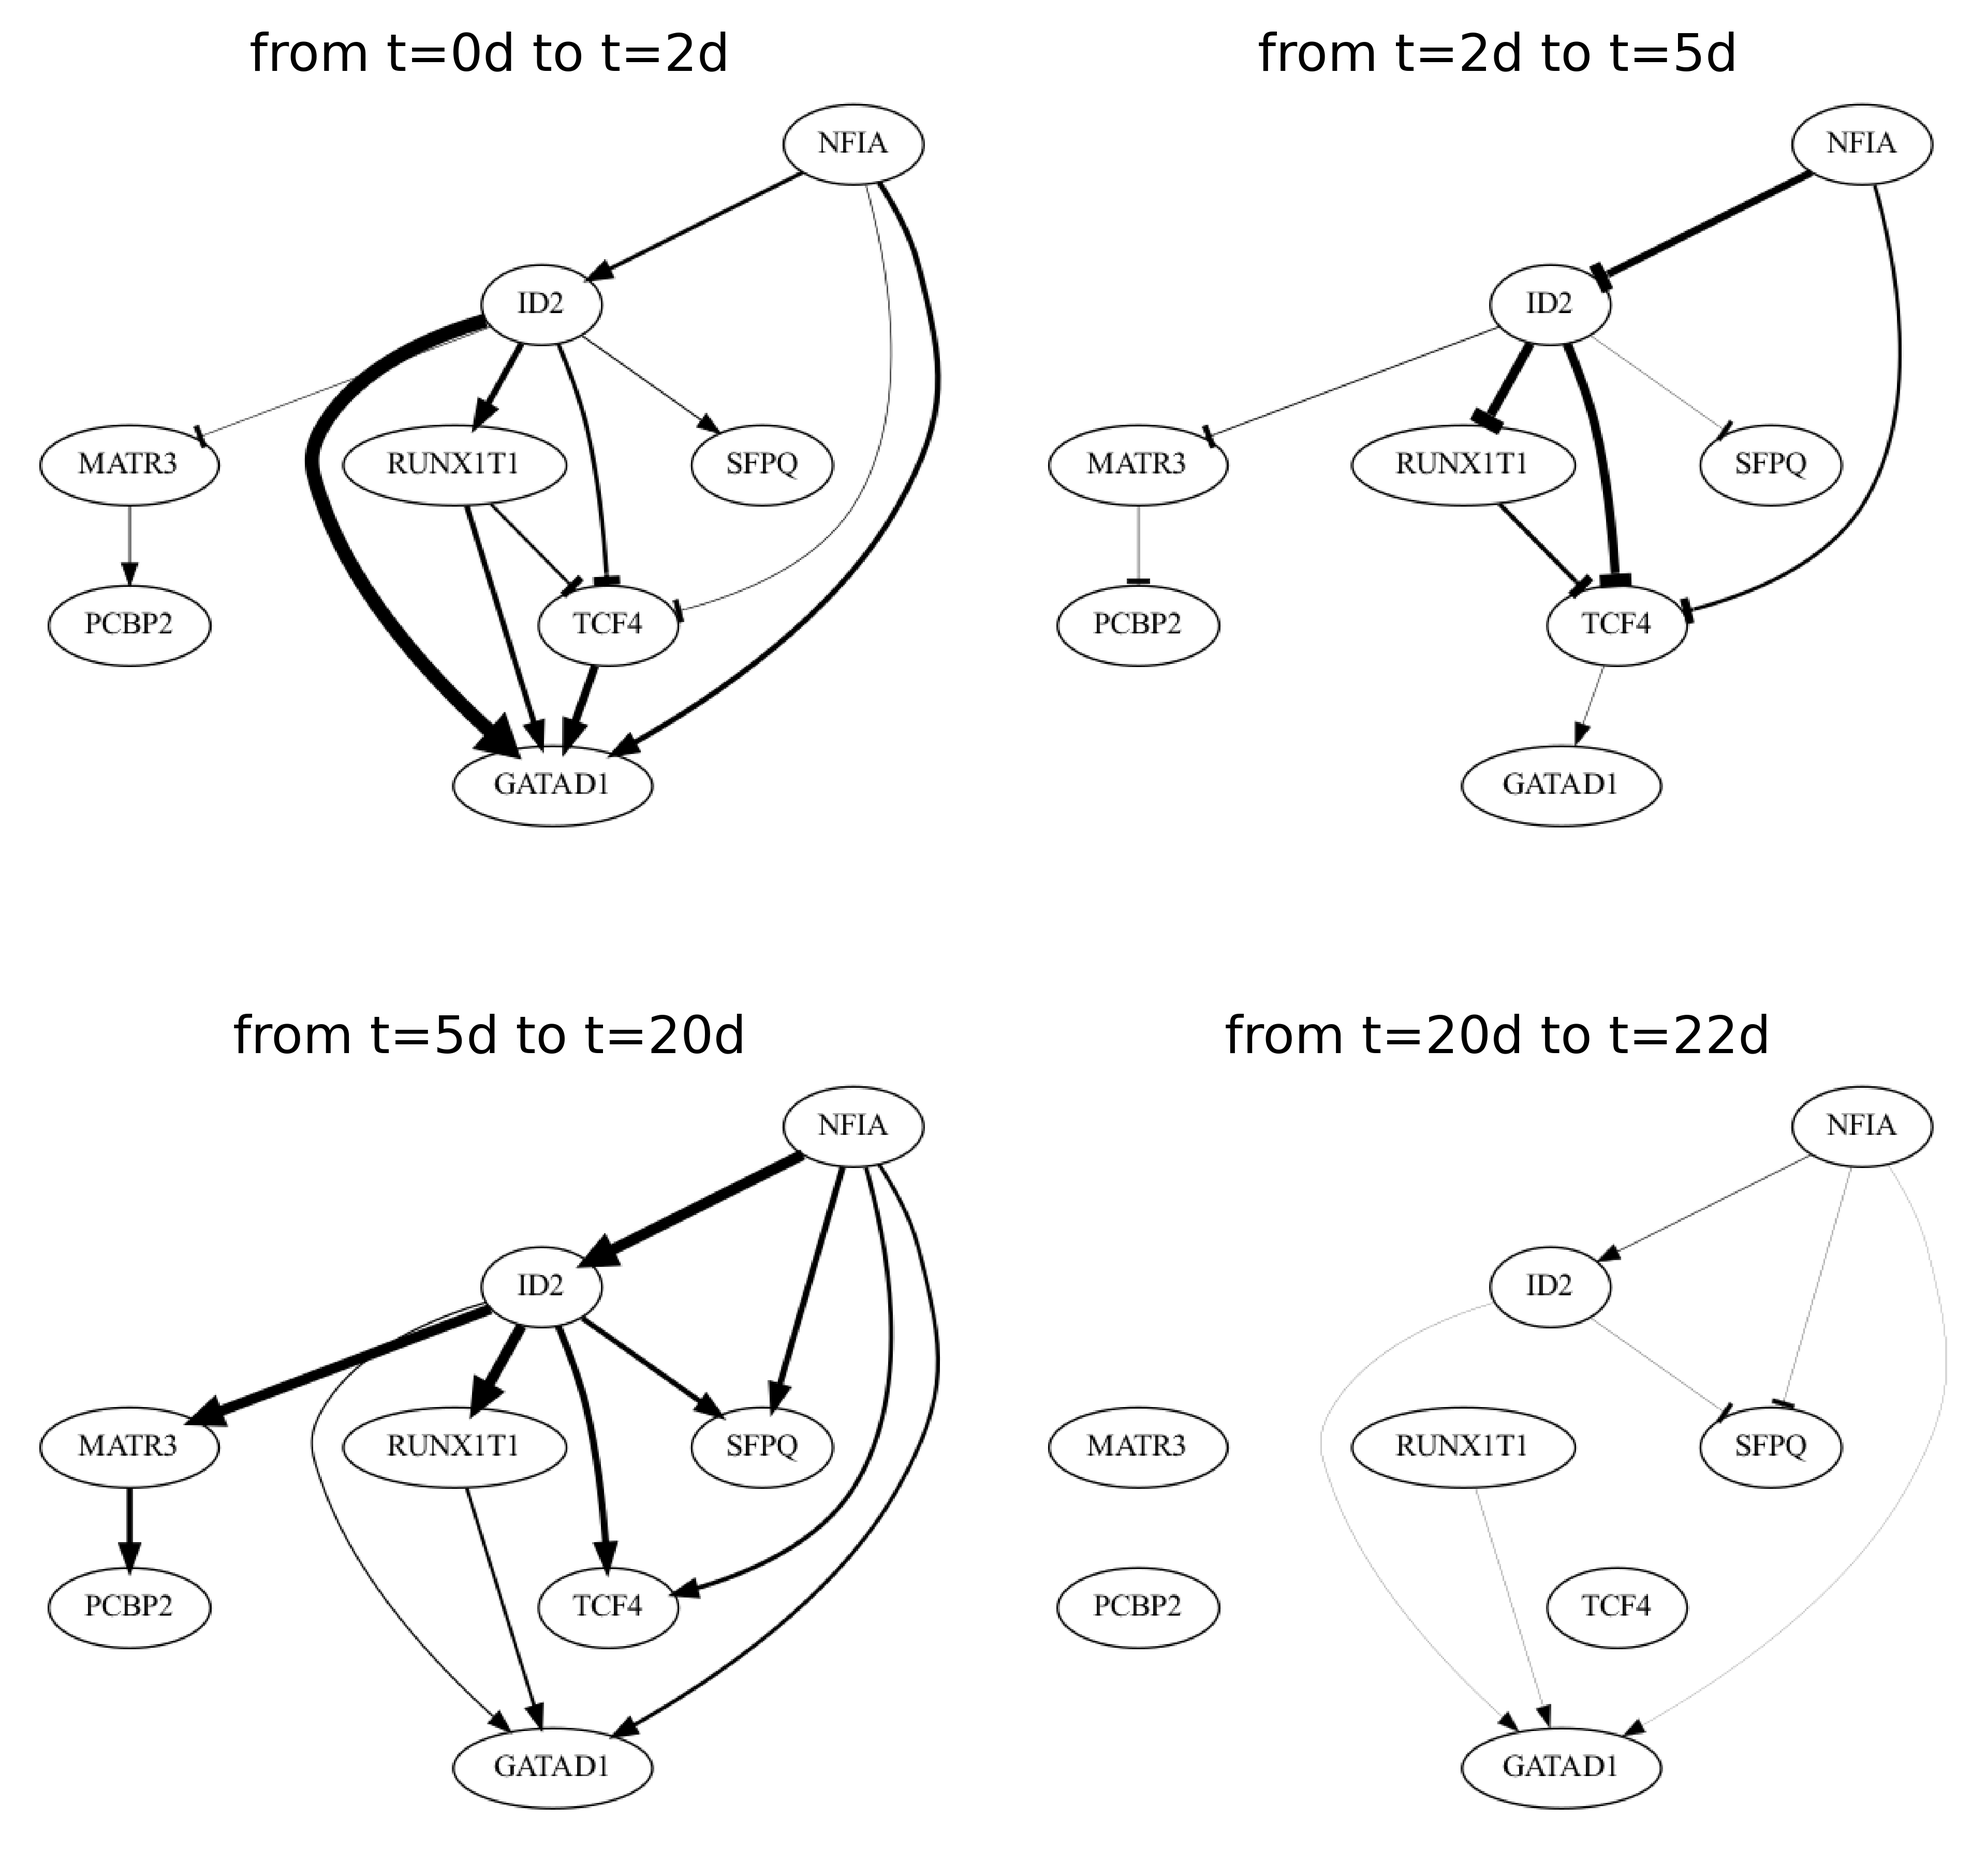
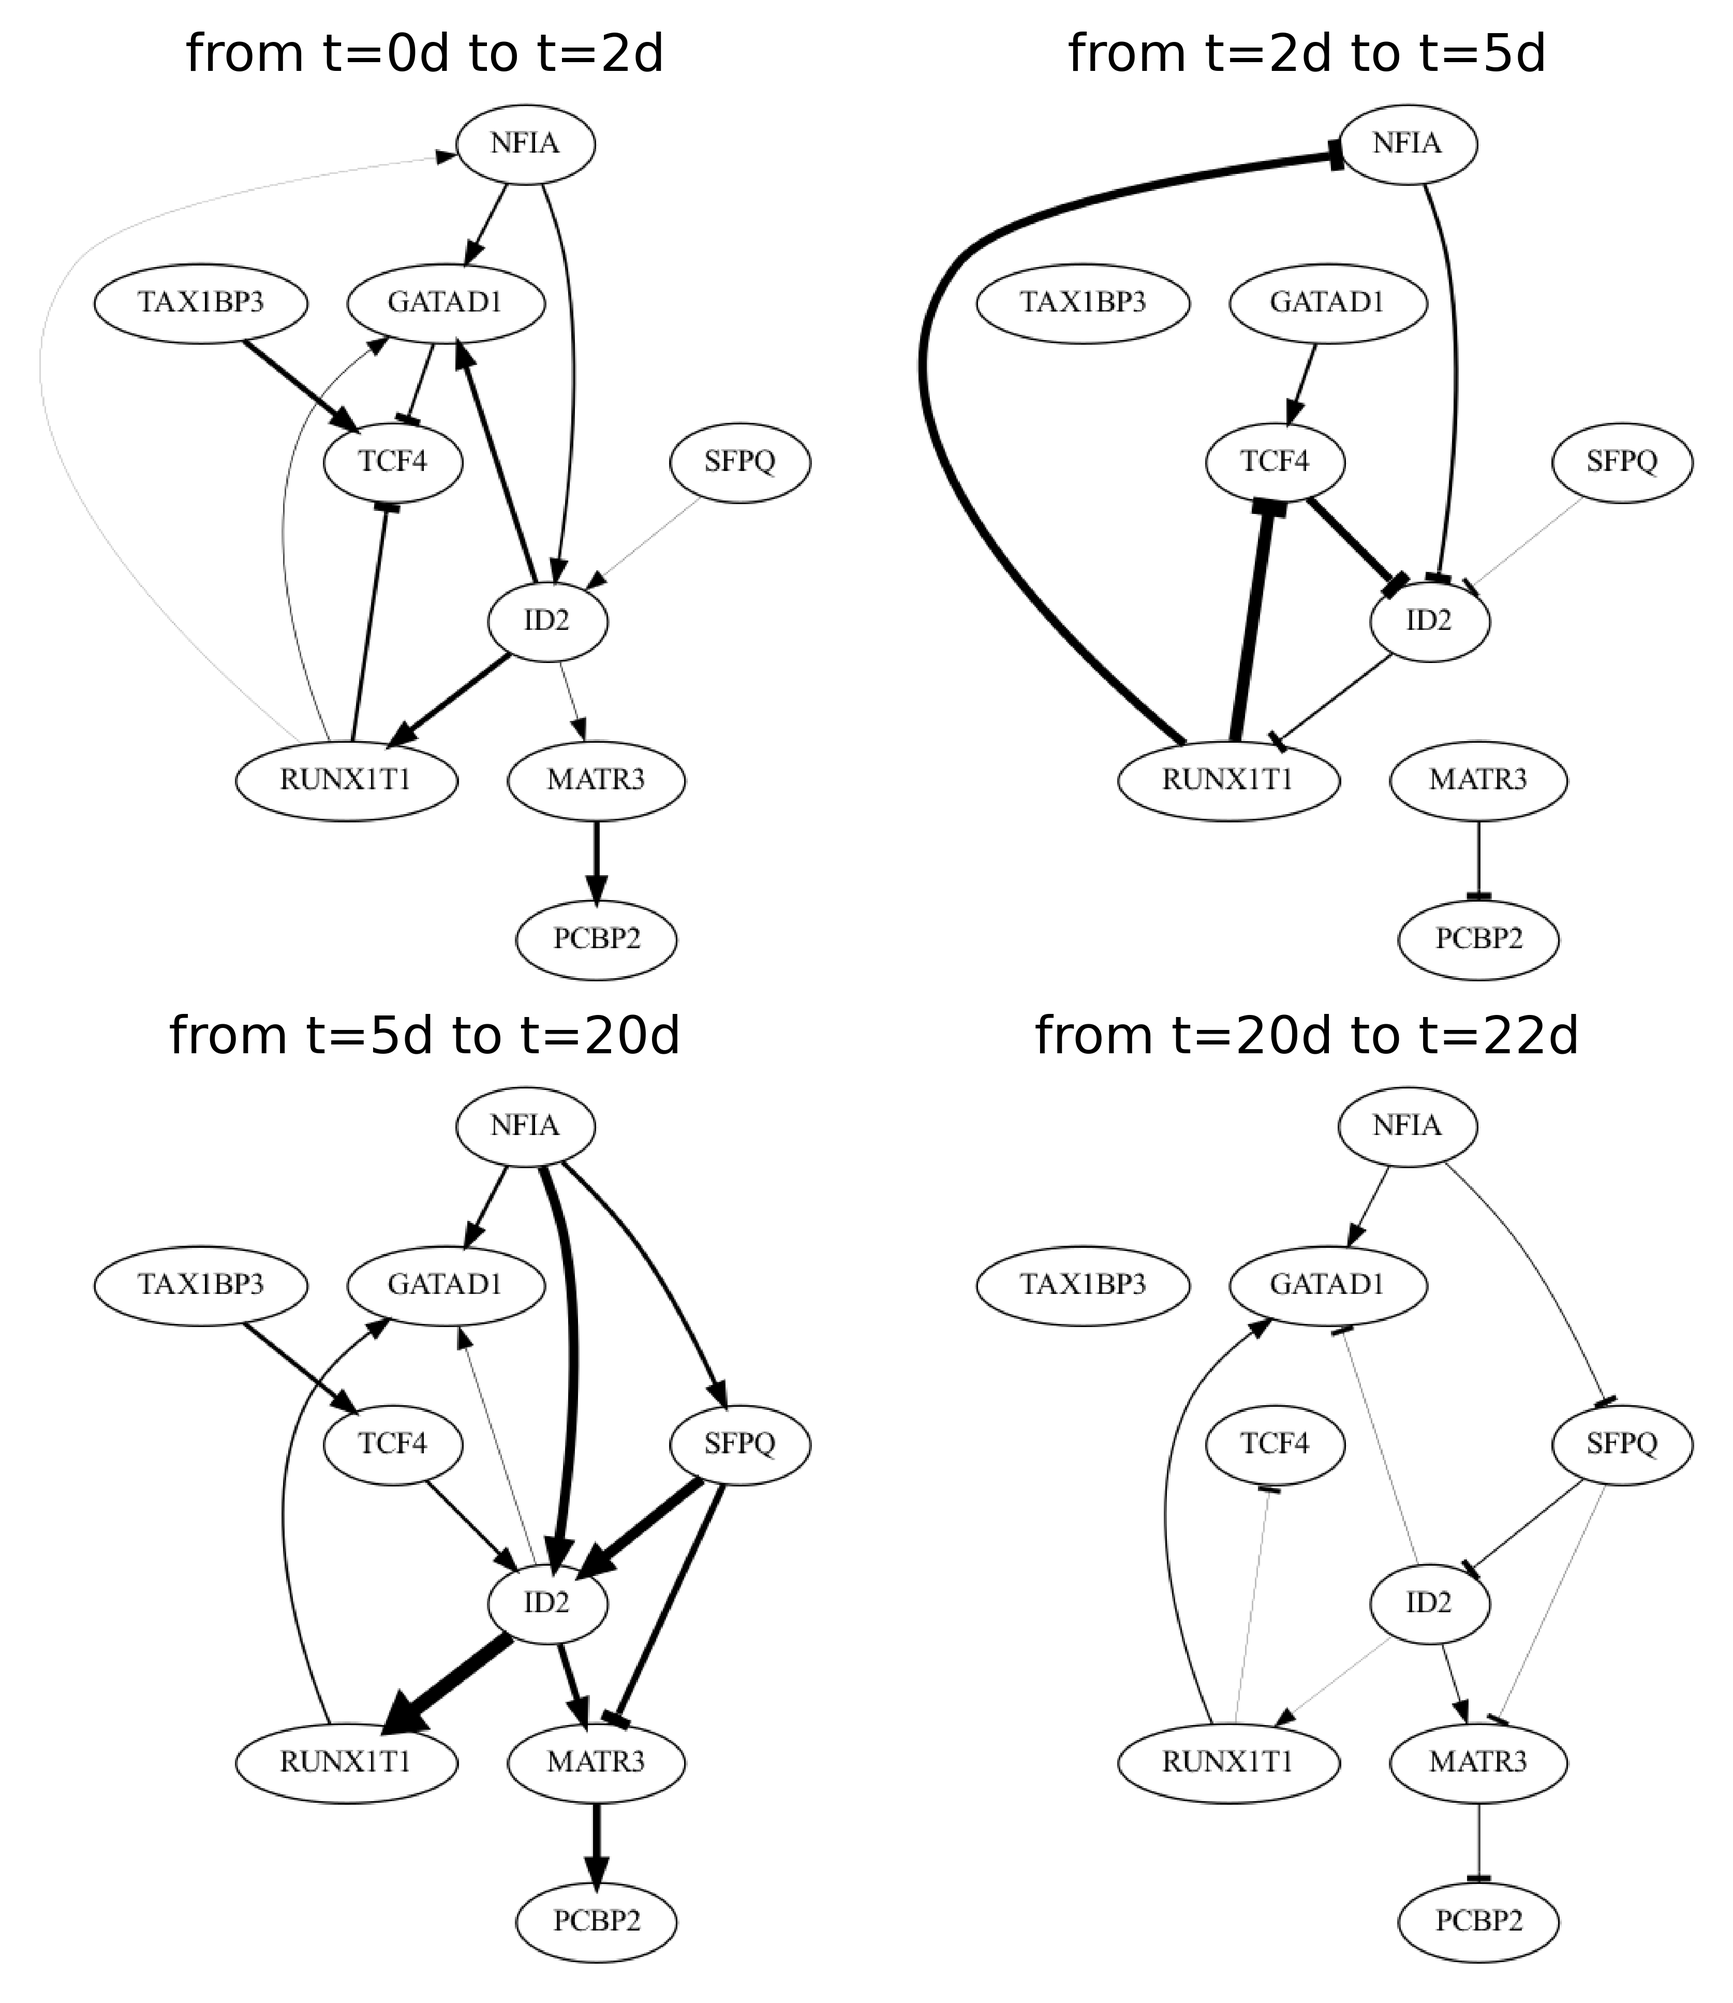
Add files via upload

diff --git a/exp_plot.py b/exp_plot.py
@@ -1,5 +1,9 @@
+#!/usr/bin/env python3
+# -*- coding: utf-8 -*-
 """
-this code combines different GRNs from experimental data
+Created on Wed Mar  6 15:27:56 2024
+
+@author: yuewang
 """
 
 import matplotlib.pyplot as plt 
@@ -13,22 +17,22 @@ f3 = img.imread('Experimental data/Exp GRN/GRN_data0_time3.png')
 fz = 8
 plt.figure(1)
 ax = plt.subplot(4, 1, 1)
-ax.set_title("from t=0h to t=12h", fontsize=fz)
+ax.set_title("from t=0h to t=12h", fontsize=fz, loc='left')
 plt.imshow(f0)
 plt.axis('off')
 ax = plt.subplot(4, 1, 2)
-ax.set_title("from t=12h to t=24h", fontsize=fz)
+ax.set_title("from t=12h to t=24h", fontsize=fz, loc='left')
 plt.imshow(f1)
 plt.axis('off')
 ax = plt.subplot(4, 1, 3)
-ax.set_title("from t=24h to t=48h", fontsize=fz)
+ax.set_title("from t=24h to t=48h", fontsize=fz, loc='left')
 plt.imshow(f2)
 plt.axis('off')
 ax = plt.subplot(4, 1, 4)
-ax.set_title("from t=48h to t=72h", fontsize=fz)
+ax.set_title("from t=48h to t=72h", fontsize=fz, loc='left')
 plt.imshow(f3)
 plt.axis('off')
-plt.subplots_adjust(wspace=0, hspace=0)
+plt.subplots_adjust(wspace=0, hspace=0.2)
 plt.savefig('grn0.png', dpi=600, bbox_inches='tight')
 plt.show()
 
@@ -40,7 +44,7 @@ f2 = img.imread('Experimental data/Exp GRN/GRN_data1_time2.png')
 f3 = img.imread('Experimental data/Exp GRN/GRN_data1_time3.png') 
 
 fz = 12
-plt.figure(1, figsize=(8,8))
+plt.figure(1, figsize=(7,8))
 ax = plt.subplot(2, 2, 1)
 ax.set_title("from t=0d to t=2d", fontsize=fz)
 plt.imshow(f0)
@@ -70,28 +74,28 @@ f3 = img.imread('Experimental data/Exp GRN/GRN_data2_time3.png')
 f4 = img.imread('Experimental data/Exp GRN/GRN_data2_time4.png') 
 
 fz = 12
-plt.figure(1, figsize=(8,8))
-ax = plt.subplot(3, 2, 1)
+plt.figure(1, figsize=(7,6))
+ax = plt.subplot(2, 3, 1)
 ax.set_title("from t=0h to t=12h", fontsize=fz)
 plt.imshow(f0)
 plt.axis('off')
-ax = plt.subplot(3, 2, 2)
+ax = plt.subplot(2, 3, 2)
 ax.set_title("from t=12h to t=24h", fontsize=fz)
 plt.imshow(f1)
 plt.axis('off')
-ax = plt.subplot(3, 2, 3)
+ax = plt.subplot(2, 3, 3)
 ax.set_title("from t=24h to t=36h", fontsize=fz)
 plt.imshow(f2)
 plt.axis('off')
-ax = plt.subplot(3, 2, 4)
+ax = plt.subplot(2, 3, 4)
 ax.set_title("from t=36h to t=72h", fontsize=fz)
 plt.imshow(f3)
 plt.axis('off')
-ax = plt.subplot(3, 2, 5)
+ax = plt.subplot(2, 3, 5)
 ax.set_title("from t=72h to t=96h", fontsize=fz)
 plt.imshow(f3)
 plt.axis('off')
-plt.subplots_adjust(wspace=0.1, hspace=0)
+plt.subplots_adjust(wspace=0.15, hspace=0.0)
 plt.savefig('grn2.png', dpi=600, bbox_inches='tight')
 plt.show()
 

diff --git a/exp_data.py b/exp_data.py
@@ -1,11 +1,13 @@
+#!/usr/bin/env python3
+# -*- coding: utf-8 -*-
 """
-for three experimental data sets, use WENDY method to calculate the GRN
-between each neighboring pair of time points.
-then draw the GRN
+Created on Tue Feb 27 16:03:22 2024
+
+@author: yuewang
 """
 
 import numpy as np
-from wendy_alg import wendy_alg
+from wendy_var import wendy_alg
 from graphviz import Digraph
 
 for dataset in range(3):
@@ -63,25 +65,30 @@ for dataset in range(3):
     acc = np.zeros((gene_num, gene_num))
     for i in range(n_tp-1):
         temp = wendy_alg(exp[i], exp[i+1]) # use WENDY to calculate the GRN
+        #print(temp)
         wendy.append(temp)
         reg = []
         acc += np.abs(temp)
     total = []
     for p in range(gene_num):
         for q in range(gene_num):
+            if p == q:
+                continue
             total.append([acc[p, q], p, q])
     total.sort(reverse=True, key=lambda x:x[0])
     strong = set()
-    for w in total[:20]:
-        if (w[2], w[1]) not in strong: # top 20 edges
+    for w in total:
+        if (w[2], w[1]) not in strong: # top 15 edges
             strong.add((w[1], w[2]))
+        if len(strong) == 15:
+            break
     gene_names = set()
     for [x,y] in strong:
         gene_names.add(tf[x])
         gene_names.add(tf[y])
     gene_names = list(gene_names)
     gs = ', '.join(gene_names)
-    print(gs) # genes considered
+    print(gs)
     
     for i in range(n_tp-1): # use graphviz to draw the GRN
         dot = Digraph()
@@ -95,6 +102,7 @@ for dataset in range(3):
                          penwidth=str(10*np.abs(wendy[i][x, y])))    
             else:
                 dot.edge(tf[x], tf[y], penwidth=str(0), arrowsize=str(0))
+        #dot.view()
         filename = 'Experimental data/Exp GRN/GRN_data%d_time%d' % (dataset, i)
         file_ext = 'png'
-        dot.render(filename, format=file_ext, view=False) # save the GRN figure
+        dot.render(filename, format=file_ext, view=False)
